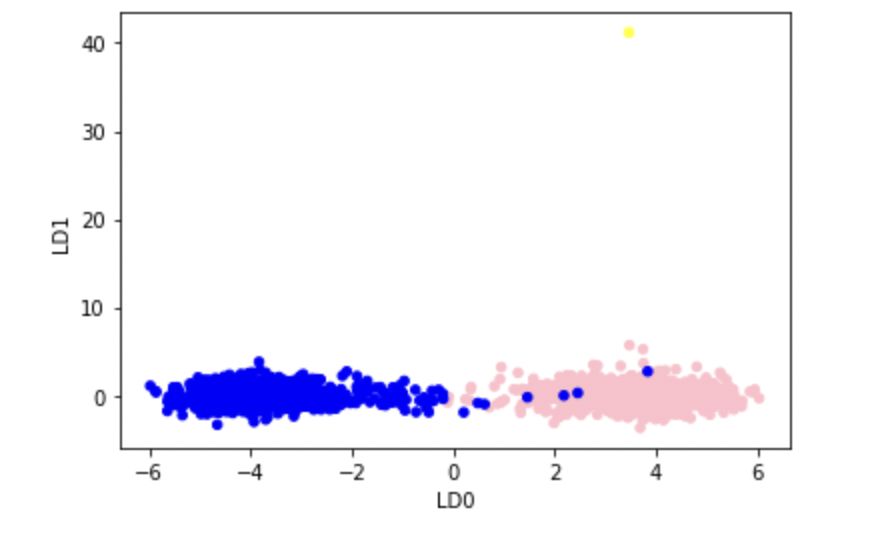
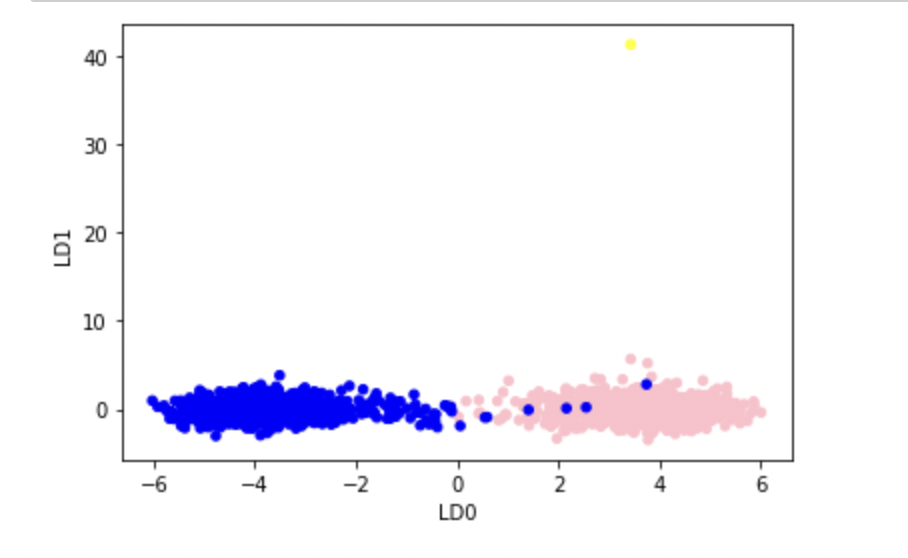
k

Changed region(s): [[0.0308, 0.0, 1.0, 0.9481]]

diff --git a/HW3_Yuechen_Liu/Readme.md b/HW3_Yuechen_Liu/Readme.md
@@ -63,12 +63,22 @@ I think the table has limitations to see the relationship among MeSH terms. The 
 ## Exercise 3
 ### In particular, for each paper identified from exercise 1, compute the SPECTER embedding (a 768-dimensional vector). Keep track of which papers came from searching for Alzheimers, which came from searching for cancer. 
 Answer:
+Firstly, I find the index of overlap paper, which is 885; then, I set the query of the overlap paper as 'BOTH'. I utilize SPECTER model to process my dictionary of papers, and as we can see from the below graph:
+![](https://github.com/YCKellyLiu/BIS634/blob/main/HW3_Yuechen_Liu/a_c.png)
+The overlap paper have index of 885; from index 0-884 and 886-999 are Cancer, and 1000-1998 are Alzheimers, based on the fact that there are total 2000 papers, 1000 for Cancer, 1000 for Alzheimers. 
 
+### Plot 2D scatter plots for PC0 vs PC1, PC0 vs PC2, and PC1 vs PC2; color code these by the search query used (Alzheimers vs cancer). (3 points) Comment on the separation or lack thereof, and any take-aways from that. (2 points)
+#### PC0 vs PC1
+![](https://github.com/YCKellyLiu/BIS634/blob/main/HW3_Yuechen_Liu/pc0_pc1.png)
+![](https://github.com/YCKellyLiu/BIS634/blob/main/HW3_Yuechen_Liu/pc0_pc2.png)
+According to the definition of PCA, we can see that the variation (seperation) is obviously, which means that it PCA holds the variance of data and we can access more information of the by looking at the dimension PC0 vs PC1. Same as to the dimension of PC0 vs PC2, we can see the great variance of data, which we can get information from it. 
+![](https://github.com/YCKellyLiu/BIS634/blob/main/HW3_Yuechen_Liu/pc1_pc2.png)
+But for dimension of PC1 vs PC2, there are many overlaps, and the variance is not obvious, thus we will get less information about the data from this dimension. According to https://www.datacamp.com/community/tutorials/principal-component-analysis-in-python
 
-
-
-
-
+### Now look at the distribution with the LDA projection. Note that if you have n categories (presumably 2 or maybe 3 for you), LDA will give at most n-1 reduced dimensions... so graphically show the LDA projection results in the way that you feel best captures the distribution. Comment on your choice, things you didn't chose and why, and any other differences about what you saw with PCA vs LDA.
+Answer:
+![](https://github.com/YCKellyLiu/BIS634/blob/main/HW3_Yuechen_Liu/ld0_ld1.png)
+For the graph we can see that LDA is to gather the subgroup and maximizes the separability between different groups. As a result, we can see that the data of Cancer is more concentrated together; the data of Alzheimer is more concnetrated together; but two clusters are separate. However, PCA is finding the maximal variance of data, so in the graphs of PCA, we can see many overlaps. I will choose different analysis ways based on what I need for my research. 
 
 ## Exercise 4 
 ### Describe in words how you would parallelize this algorithm to work with two processes.
